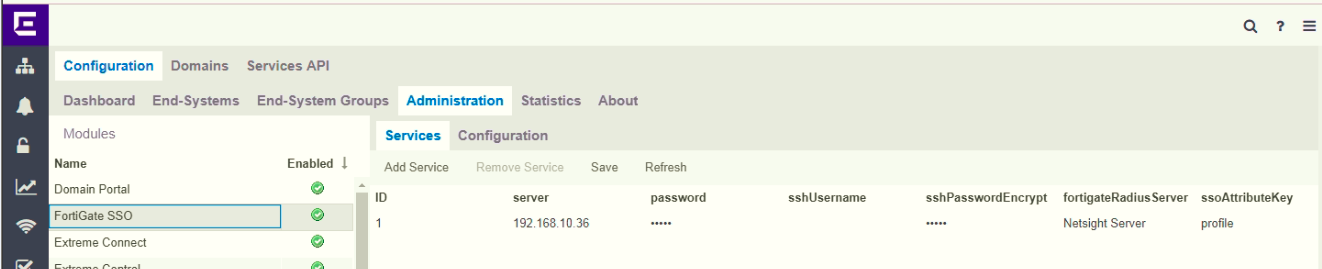
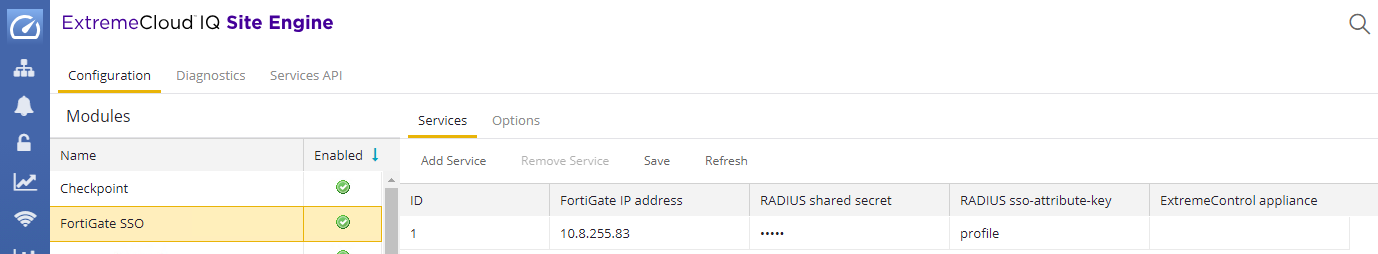
Updated integration with FortiGate

diff --git a/FortiGate/monitoring/README.md b/FortiGate/monitoring/README.md
@@ -1,21 +1,21 @@
-# Monitoring by Extreme Management Center
+# Monitoring by ExtremeCloud IQ - Site Engine
 
-## Extreme Management Center configuration
+## ExtremeCloud IQ - Site Engine configuration
 
 ### Access profile configuration
-The communication between Extreme Management Center and FortiGate appliance is based on SNMP.
+The communication between Site Engine and FortiGate appliance is based on SNMP.
 
 ### FlexViews
 FlexViews for FortiGate are published at this [repository](https://github.com/extremenetworks/XMC-Report-Views/blob/master/FlexView/FortiGate/README.md).
-Download relevant flexviews and upload it to the following directory on the Extreme Management Center:
+Download relevant flexviews and upload it to the following directory on the Site Engine:
 `install_path/Extreme_Networks/NetSight/appdata/System/FlexViews/My FlexViews`
 
 ### MIBs
 FortiGate FlexViews do need FortiGate MIBs. You can download MIBs from the FortiGate System -> SNMP -> Download FortiGate MIB File & Download Fortinet Core MIB File.
-Necessary MIBs should be imported to Extreme Management Center. [KB article](https://extremeportal.force.com/ExtrArticleDetail?an=000080448&q=Netsight-Importing-a-MIB-into-Netsight)
+Necessary MIBs should be imported to Site Engine. [KB article](https://extremeportal.force.com/ExtrArticleDetail?an=000080448&q=Netsight-Importing-a-MIB-into-Netsight)
 
 ### Vendor profile
-Right click on the appliance at Network menu of Extreme Management Center -> Device -> Configure Device…: specify Device Type, Vendor, Company, Image and Family. If you want to use predefined DeviceView, then the Family must be `FortiGate`. When the logo is first uploaded the preview may be with wrong aspect ratio:
+Right click on the appliance at Network menu of Site Engine -> Device -> Configure Device…: specify Device Type, Vendor, Company, Image and Family. If you want to use predefined DeviceView, then the Family must be `FortiGate`. When the logo is first uploaded the preview may be with wrong aspect ratio:
 ![Details](https://github.com/extremenetworks/XMC-Report-Views/blob/master/DeviceView/FortiGate/sample/VendorProfile.png "Details")
 
 ### DeviceView
@@ -24,7 +24,7 @@ DeviceViews are published at this [repository](https://github.com/extremenetwork
 ## FortiGate configuration
 
 ### SNMP
-It is recommended to use SNMPv3, however v1 or v2c will work also. SNMP credentials must match those in the Access profile of the Extreme Management Center. Use your web browser, navigate to your FortiGate node: System Management -> SNMP
+It is recommended to use SNMPv3, however v1 or v2c will work also. SNMP credentials must match those in the Access profile of the Site Engine. Use your web browser, navigate to your FortiGate node: System Management -> SNMP
 ![Details](FortiGateSNMP.png "SNMP FortiGate config")
 
 # Support

diff --git a/FortiGate/README.md b/FortiGate/README.md
@@ -1,37 +1,37 @@
 # ExtremeControl & FortiGate Firewall
 
-_Abstract: How to integrate ExtremeManagement & ExtremeControl with FortiGate Firewall._
+_Abstract: How to integrate ExtremeCloud IQ - Site Engine & ExtremeControl with FortiGate Firewall._
 
-## Monitoring by Extreme Management Center
-The communication between Extreme Management Center and FortiGate is based on SNMP.
+## Monitoring by ExtremeCloud IQ - Site Engine
+The communication between Site Engine and FortiGate is based on SNMP.
 
 [Details & How-To](monitoring/README.md).
 
 Tested versions:
-* Extreme Management Center: 8.0 and 8.1.2.59 and 8.1.3.65
-* FortiGate: v5.6.2 build1486 (GA)
+* Site Engine: 23.7.11
+* FortiGate: v5.6.2, 7.2.3
 
 ## User ID to IP mapping through RSSO
-The communication between Extreme Management Center and FortiGate is based on Radius Accounting. Radius Accounting messages are originated from Extreme Management Center to enhance the FortiGate user identity information.
+The communication between Site Engine and FortiGate is based on Radius Accounting. Radius Accounting messages are originated from Site Engine to enhance the FortiGate user identity information.
 
 [Details & How-To](idtoip/README.md)
 
 [Video how does it work](https://extr.co/2PLpro2)
 
 Tested versions:
-* Extreme Management Center: 8.0 and 8.1.2.59 and 8.1.3.65
-* FortiGate: v5.6.2 build1486 (GA)
+* Site Engine: 23.7.11
+* FortiGate: v5.6.2, 7.2.3
 
 ## Distributed IPS solutions
-FortiGate does inform Extreme Control (part of Management Center) and the threat is quarantined. Syslog message is used for this communication.
+FortiGate does inform Extreme Control (part of Site Engine) and the threat is quarantined. Syslog message is used for this communication.
 
 [Details & How-To](dips/README.md)
 
 [Video how does it work](https://extr.co/2LFRMsx)
 
 Tested versions:
-* Extreme Management Center: 8.0 and 8.1.2.59 and 8.1.3.65 and 8.2.2.100
-* FortiGate: v5.6.2 build1486 (GA), v6.0.4 build0231 (GA)
+* Site Engine: 23.7.11
+* FortiGate: v5.6.2, v6.0.4,  7.2.3
 
 # Support
 _The software is provided as-is and [Extreme Networks](http://www.extremenetworks.com/) has no obligation to provide maintenance, support, updates, enhancements, or modifications. Any support provided by [Extreme Networks](http://www.extremenetworks.com/) is at its sole discretion._

diff --git a/FortiGate/idtoip/README.md b/FortiGate/idtoip/README.md
@@ -19,14 +19,10 @@
 
 ![Extreme Connect](ConnectConfig.png "Extreme Connect")
 * There can be more firewalls you want to integrate with = each does have unique ID.
-* Server = IP address or FQDN of the FortiGate firewall = destination of radius accounting packages.
-* Password = Shared Secret for radius communication from Extreme Management Center to FortiGate.
-* ssoAttributeKey = what key will XMC send in the Radius Accounting message.
-
-![Extreme Connect](ConnectConfig1.png "Extreme Connect")
-* addClassRadiusAttrbute = yes send the ssoAttributeKey in the radius accounting.
-* primaryNAC = send Radius Accounting to this firewall if endsystem is processed by Access Control Engine (primary NAC-gw).
-* backupNAC = send Radius Accounting to this firewall if endsystem is processed by Access Control Engine (backup NAC-gw).
+* FortiGate IP address = IP address or FQDN of the FortiGate firewall = destination of radius accounting packages.
+* RADIUS shared secret = Shared Secret for radius communication from Site Engine to FortiGate.
+* RADIUS ssoAttributeKey = what key will Site Engine send in the Radius Accounting message.
+* ExtremeControl appliance = send Radius Accounting to this firewall if endsystem is processed by Access this Control Engine.
 
 ![Extreme Connect](ConnectConfig2.png "Extreme Connect")
 * Module enabled = True.

diff --git a/FortiGate/dips/README.md b/FortiGate/dips/README.md
@@ -1,6 +1,6 @@
 # Distributed IPS
 
-## Extreme Management Center configuration
+## ExtremeCloud IQ - Site Engine configuration
 * FortiGate can inform the Extreme Connect to quarantine the end-system by syslog message. Open the OneView -> Connect -> Configuration -> Administration -> Distributed IPS -> Services  
 
 ![Connect](Connect.png "Connect")
@@ -19,7 +19,7 @@ Based on the FortiGate firewall settings the module can receive many syslog mess
 * Do not forget to save your changes.
 
 ## FortiGate
-* In the FortiGate menu: Log & Report -> Log Settings -> IP Address/FQDN is the Extreme Management Center, Send Logs to Syslog enabled, configure what events you want to send to syslog.
+* In the FortiGate menu: Log & Report -> Log Settings -> IP Address/FQDN is the Site Engine, Send Logs to Syslog enabled, configure what events you want to send to syslog.
 
 ![Syslog Settings](SyslogSettings.png "Syslog Settings")
 * Enable logging in the rule you want the quarantine action to happen
